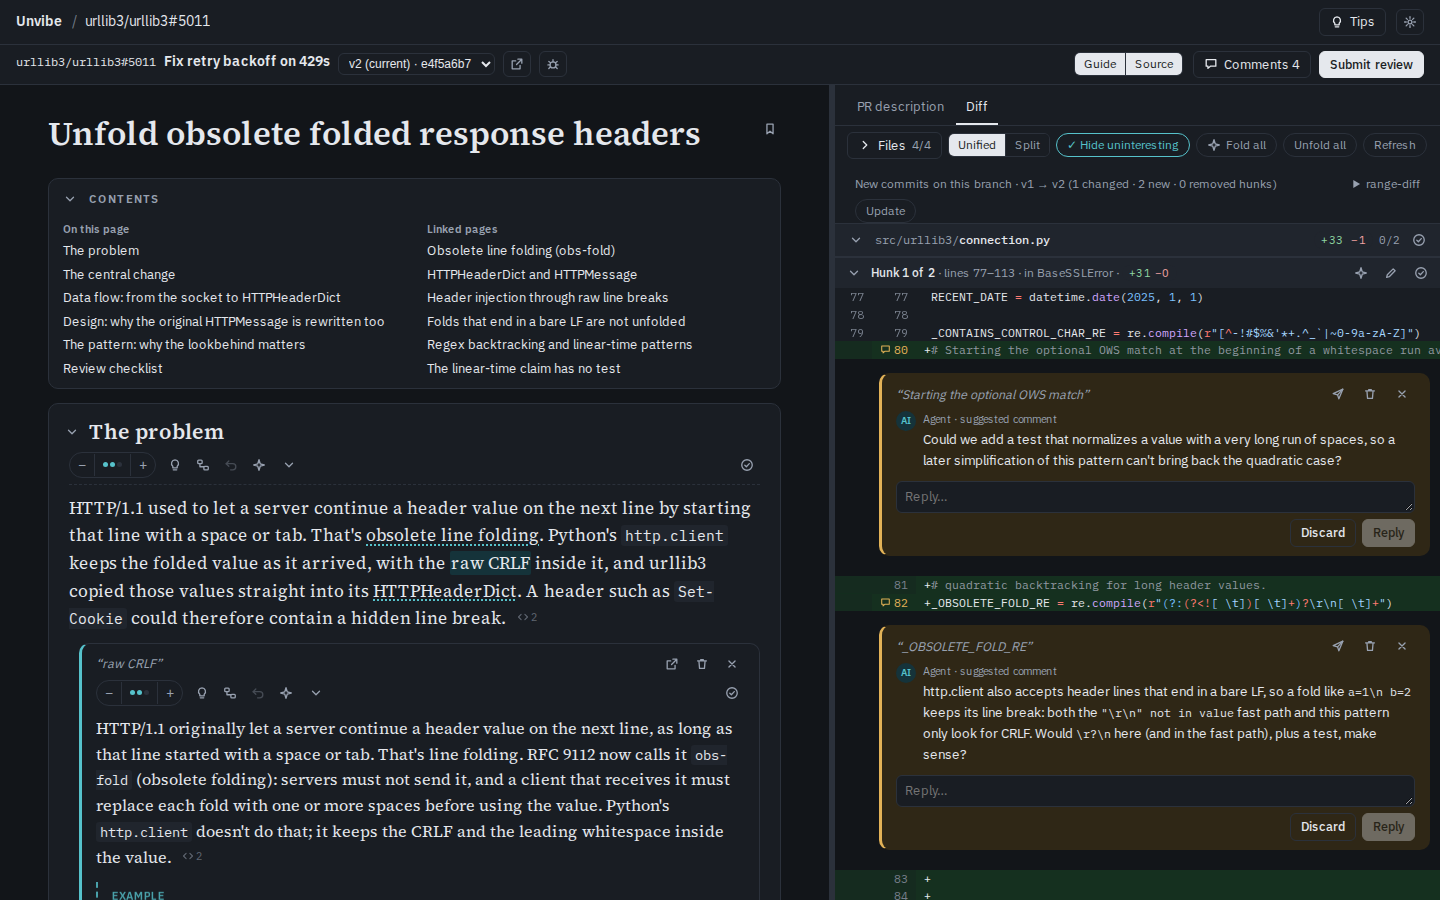
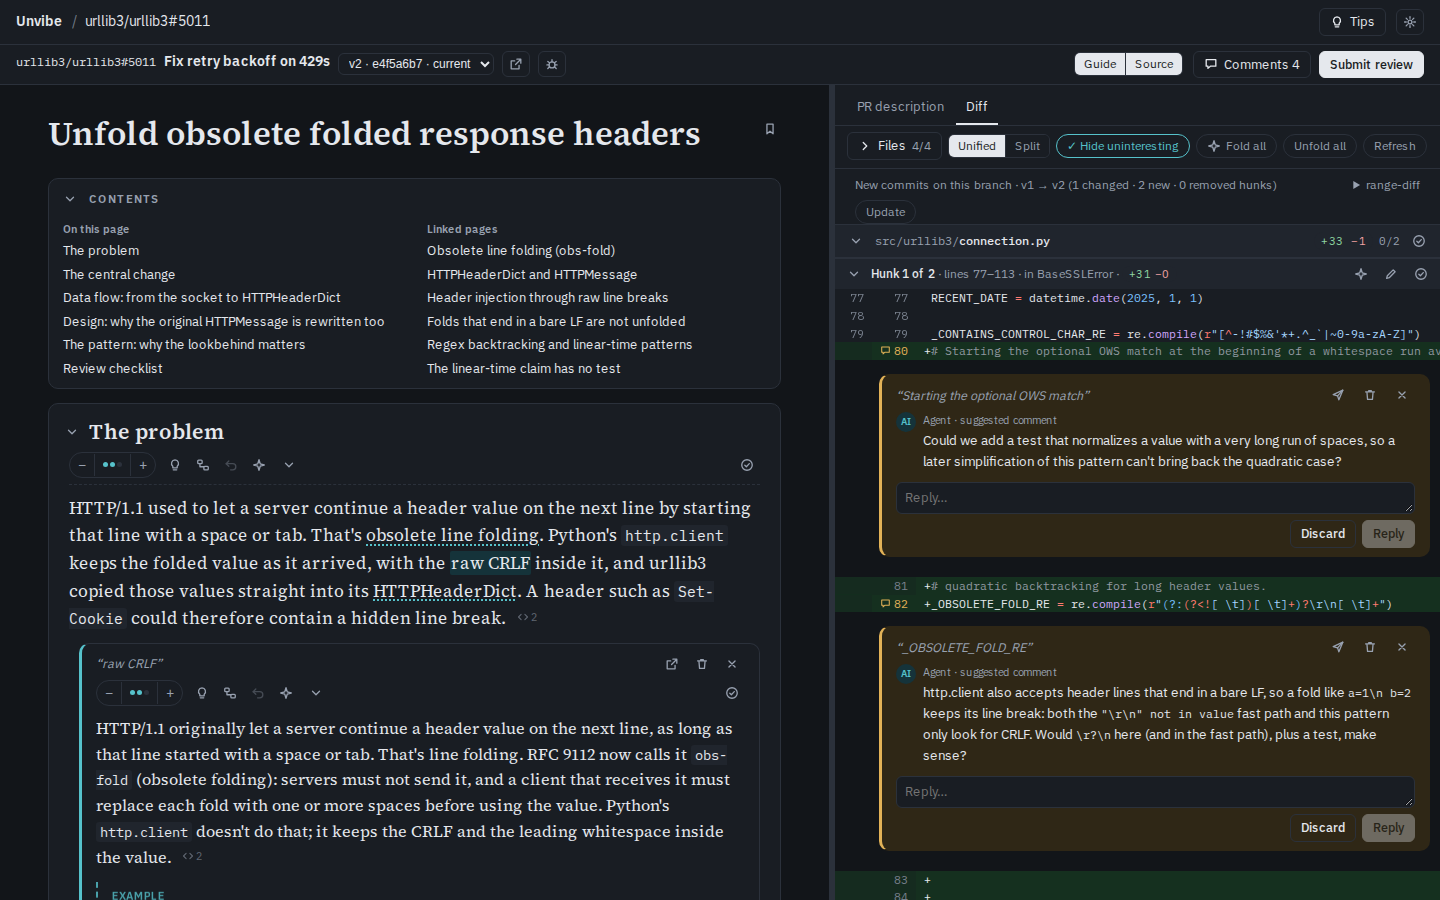
#120 follow-up: just annotate current in the dropdown, drop the bar notice and back button

diff --git a/packages/web/src/shell/ReviewBar.test.tsx b/packages/web/src/shell/ReviewBar.test.tsx
@@ -3,7 +3,8 @@
  * link-out (PR reviews only), the Debug icon button, the Guide|Source
  * selector, and Comments + primary Submit side by side. Issue #120: the
  * version selector lives here next to the identity (rendered once, also
- * with the guide pane hidden) with its read-only way back.
+ * with the guide pane hidden); the current version is annotated in the
+ * dropdown and an older shown version flags the select.
  */
 import { afterEach, beforeEach, describe, expect, it, vi } from "vitest";
 import "@testing-library/jest-dom/vitest";
@@ -222,6 +223,10 @@ describe("ReviewBar", () => {
       const pick = screen.getByLabelText("View version") as HTMLSelectElement;
       expect(pick.value).toBe("2");
       expect(pick).toHaveClass("tbtn");
+      // The current version is annotated in the dropdown.
+      const texts = [...pick.options].map((o) => o.textContent);
+      expect(texts).toContain("v2 · e4f5a6b7 · current");
+      expect(texts).toContain("v1 · bdcc1e49");
       cleanup();
       useReview.getState().clear();
       await renderBar("demo", "urllib3/urllib3#5020");
@@ -239,7 +244,7 @@ describe("ReviewBar", () => {
       expect(screen.getByTestId("version-switcher")).toBeInTheDocument();
     });
 
-    it("shows the read-only state with a way back to current", async () => {
+    it("flags an older shown version and annotates current as the way back", async () => {
       window.history.replaceState({}, "", "/review/r-old?version=1");
       try {
         useReview.getState().setSnapshot(await api.review("r-old"));
@@ -249,9 +254,16 @@ describe("ReviewBar", () => {
           </MemoryRouter>,
         );
         await screen.findByText("urllib3/urllib3#5011", {}, { timeout: 5000 });
-        const notice = screen.getByTestId("version-switcher");
-        expect(notice).toHaveTextContent("Viewing v1 · read-only");
-        expect(screen.getByRole("button", { name: "Back to current" })).toBeInTheDocument();
+        // The select shows the older version with the warning state; the
+        // bar itself carries no notice and no back button.
+        const switcher = screen.getByTestId("version-switcher");
+        expect(switcher).toHaveAttribute("data-ro", "1");
+        expect(screen.queryByRole("button", { name: "Back to current" })).toBeNull();
+        expect(switcher).not.toHaveTextContent("read-only");
+        const pick = screen.getByLabelText("View version") as HTMLSelectElement;
+        expect(pick.value).toBe("1");
+        const texts = [...pick.options].map((o) => o.textContent);
+        expect(texts).toContain("v2 · e4f5a6b7 · current");
       } finally {
         window.history.replaceState({}, "", "/");
       }

diff --git a/packages/web/src/versions/VersionSwitcher.tsx b/packages/web/src/versions/VersionSwitcher.tsx
@@ -1,9 +1,12 @@
 /**
- * Version switcher + read-only notice (PRD §8 "older versions stay
- * viewable"): a compact select of `review.versions`; picking an older one
- * navigates to `?version=n`, picking current clears it. Rendered once in
- * the review bar next to the review identity (issue #120), so it works
- * with the guide pane hidden; the diff pane reads the same param.
+ * Version switcher (PRD §8 "older versions stay viewable"): a compact
+ * select of `review.versions`; picking an older one navigates to
+ * `?version=n`, picking the current one clears it. Rendered once in the
+ * review bar next to the review identity (issue #120), so it works with
+ * the guide pane hidden; the diff pane reads the same param. The current
+ * version's option is annotated; an older shown version flags the select
+ * with the warning border (the page's other read-only signs stay as they
+ * are).
  */
 import { useLocation, useNavigate } from "react-router-dom";
 import { useReview } from "../state/store.js";
@@ -34,25 +37,17 @@ export function VersionSwitcher(): React.JSX.Element | null {
         id="version-pick"
         className="tbtn"
         aria-label="View version"
-        title={readOnly ? `Viewing v${viewing} · read-only` : "View version"}
+        title="View version"
         value={value}
         onChange={(e) => pick(Number(e.target.value))}
       >
         {review.versions.map((v) => (
           <option key={v.n} value={v.n}>
-            v{v.n}
-            {v.n === current ? " (current)" : ""} · {v.headSha.slice(0, 8)}
+            v{v.n} · {v.headSha.slice(0, 8)}
+            {v.n === current ? " · current" : ""}
           </option>
         ))}
       </select>
-      {readOnly ? (
-        <span className="hint ro" role="status">
-          <span className="words">Viewing v{viewing} · read-only · </span>
-          <button type="button" className="x" onClick={() => pick(current)}>
-            Back to current
-          </button>
-        </span>
-      ) : null}
     </span>
   );
 }

diff --git a/packages/web/e2e/review-bar.spec.ts b/packages/web/e2e/review-bar.spec.ts
@@ -74,18 +74,25 @@ test("review bar and top bar do not overflow at 800px", async ({ page }) => {
   }
 });
 
-test("older version keeps its way back at 800px (issue #120)", async ({ page }) => {
+test("older version annotates current and keeps the title at 800px (issue #120)", async ({ page }) => {
   await page.setViewportSize({ width: 800, height: 600 });
   await page.goto("/review/r-old?version=1");
   await expect(page.locator("#reviewbar")).toBeVisible();
-  // Rendered once, in the bar: the select shows the older version and the
-  // way back stays visible while the title gives way first.
-  await expect(page.locator('#reviewbar [data-testid="version-switcher"]')).toHaveCount(1);
-  await expect(page.getByRole("button", { name: "Back to current" })).toBeVisible();
+  // Rendered once, in the bar: the select shows the older version with
+  // the warning state, current is annotated in the dropdown, and there
+  // is no notice and no back button in the bar.
+  const switcher = page.locator('#reviewbar [data-testid="version-switcher"]');
+  await expect(switcher).toHaveCount(1);
+  await expect(switcher).toHaveAttribute("data-ro", "1");
+  await expect(page.locator("#version-pick option", { hasText: "current" })).toContainText("v2");
+  await expect(page.getByRole("button", { name: "Back to current" })).toHaveCount(0);
+  // The title is no longer squeezed out entirely.
+  const titleBox = await page.locator("#reviewbar .rid b").boundingBox();
+  expect(titleBox?.width).toBeGreaterThan(0);
   const overflow = await page.locator("#reviewbar").evaluate((el) => el.scrollWidth - el.clientWidth);
   expect(overflow).toBeLessThanOrEqual(1);
-  // The way back returns to current.
-  await page.getByRole("button", { name: "Back to current" }).click();
+  // Choosing the annotated current version is the way back.
+  await page.locator("#version-pick").selectOption("2");
   await expect(page).not.toHaveURL(/version=1/);
 });
 

diff --git a/packages/web/e2e/settings.spec.ts b/packages/web/e2e/settings.spec.ts
@@ -328,10 +328,16 @@ test("version switcher views the older version read-only", async ({ page }) => {
   await expect(page.locator('[data-testid="version-switcher"]')).toBeVisible();
   await page.locator("#version-pick").selectOption("1");
   await expect(page).toHaveURL(/version=1/);
-  await expect(page.locator('[data-testid="version-switcher"]').getByText("Viewing v1 · read-only")).toBeVisible();
+  // Current is annotated in the dropdown; the select flags the older
+  // version and the bar itself carries no notice and no back button.
+  await expect(page.locator('#version-pick option[value="2"]')).toContainText("current");
+  await expect(page.locator('[data-testid="version-switcher"]')).toHaveAttribute("data-ro", "1");
+  await expect(page.getByRole("button", { name: "Back to current" })).toHaveCount(0);
+  // The page still signals read-only elsewhere (the diff hint).
   await expect(page.getByText("Viewing v1 · read-only", { exact: false }).first()).toBeVisible();
   await expect(page.locator('[data-testid="stale-banner"]')).toHaveCount(0);
-  await page.getByRole("button", { name: "Back to current" }).click();
+  // Choosing the annotated current version is the way back.
+  await page.locator("#version-pick").selectOption("2");
   await expect(page).not.toHaveURL(/version=1/);
   await expect(page.locator('[data-testid="stale-banner"]')).toBeVisible();
 });

diff --git a/packages/web/src/styles/prototype.css b/packages/web/src/styles/prototype.css
@@ -69,17 +69,11 @@ code { font-family: var(--mono); font-size: .86em; }
 .rbar .rid b { min-width: 0; overflow: hidden; text-overflow: ellipsis; white-space: nowrap; font-weight: 600; }
 .rbar .rid .ib { flex: none; align-self: center; }
 /* Review bar (#120): the version selector sits next to the identity. It
-   never shrinks (the title gives way first) and its read-only note never
-   truncates away at narrow widths. */
+   never shrinks (the title gives way first); an older shown version flags
+   it with the warning border. */
 .rbar .rid .vs { display: inline-flex; gap: 6px; align-items: center; flex: none; align-self: center; min-width: 0; }
 .rbar .rid .vs select.tbtn { font-size: 12px; padding: 2px 6px; max-width: 220px; }
-.rbar .rid .vs .ro { white-space: nowrap; }
-.rbar .rid .vs .ro button { flex: none; }
 .rbar .rid .vs[data-ro] select.tbtn { border-color: var(--warn); }
-/* Narrow windows keep the way back, not the words: the select already
-   shows the older version with the warning border, so only the "Viewing
-   …" words hide and "Back to current" never truncates away. */
-@media (max-width: 1100px) { .rbar .rid .vs .ro .words { display: none; } }
 .rbar .seg { flex: none; }
 .rbar .ra { display: flex; gap: 8px; align-items: center; flex: none; }
 /* Live job count (issue #98): two numbers (running · queued) in the review

diff --git a/packages/web/e2e/comments.spec.ts b/packages/web/e2e/comments.spec.ts
@@ -166,7 +166,8 @@ test("older versions are read-only: no toolbar, threads, drafts or submit", asyn
   await expect(page.locator("#page .doc h1.title")).toContainText(
     "Unfold obsolete folded response headers",
   );
-  await expect(page.locator('[data-testid="version-switcher"]').getByText("Viewing v1 · read-only")).toBeVisible();
+  await expect(page.locator('[data-testid="version-switcher"]')).toHaveAttribute("data-ro", "1");
+  await expect(page.locator('#version-pick option[value="2"]')).toContainText("current");
   // Selecting guide text offers no toolbar. The selection is made inline
   // (range + mouseup, no waits — the toolbar hides synchronously on
   // read-only versions); the selected text is asserted first so a missing

diff --git a/packages/web/src/shell/ReviewBar.tsx b/packages/web/src/shell/ReviewBar.tsx
@@ -5,8 +5,9 @@
  *
  * - Left: the review identity (`owner/name#N` + title, truncated with the
  *   full title on hover), the version selector next to it (issue #120;
- *   hidden for single-version reviews, with its read-only way back), the
- *   PR label linking to GitHub for PR reviews
+ *   hidden for single-version reviews, the current version annotated in
+ *   the dropdown, an older shown version flagged with a warning border),
+ *   the PR label linking to GitHub for PR reviews
  *   (#94, new tab) alongside the link-out icon, and Debug as
  *   an icon button (hidden until the review finishes opening, issue #92).
  * - Middle: the `[ Guide | Source ]` pane selector. Each segment toggles

diff --git a/packages/web/e2e/settings-versions-service.spec.ts b/packages/web/e2e/settings-versions-service.spec.ts
@@ -244,7 +244,10 @@ test.describe("settings + versions on the real service", () => {
 
     // Update is not wired without the pipeline (no base runner): the button
     // reports that plainly instead of hanging.
-    await page.getByRole("button", { name: "Back to current" }).click();
+    // Choosing the current version (annotated in the dropdown) is the way back.
+    const options = page.locator("#version-pick option");
+    await expect(options.last()).toContainText("current");
+    await page.locator("#version-pick").selectOption({ index: (await options.count()) - 1 });
     await expect(banner).toBeVisible();
     await banner.getByRole("button", { name: "Update" }).click();
   });

diff --git a/PRD.md b/PRD.md
@@ -68,7 +68,7 @@ Reviewing a branch you didn't write is slow. That's more and more often the case
 
 ### 4.1 Layout
 - **Top bar (app-wide only):** the **Unvibe** home link, a breadcrumb after it on every screen but the start page (`Unvibe / Settings`, `Unvibe / Settings / Doctor`, `Unvibe / <review> / Debug`), the preview-build badge and Tips where they show, and Settings as a gear icon button in the same place on every screen (the Settings screen itself has no Settings button).
-- **Review bar** (second row on a review, above both panes): the review identity (`owner/name#N` + title, the PR label linking to the PR page on GitHub for PR reviews), the version selector next to it (hidden for single-version reviews; an older version shows a read-only state with a way back to current), a GitHub link-out for PR reviews, Debug as an icon button, a `[ Guide | Source ]` pane selector (each segment toggles its pane; either pane alone fills the window, never both hidden), and Comments + Submit side by side with Submit as the primary action. While any of the review's jobs is running or queued, a small `running · queued` count sits in the right corner after Submit — a link to the Debug jobs list, with a slow gradient drift while anything runs. It renders nothing when no job is live. At narrow widths the title gives way first; the version selector and its way back never truncate away.
+- **Review bar** (second row on a review, above both panes): the review identity (`owner/name#N` + title, the PR label linking to the PR page on GitHub for PR reviews), the version selector next to it (hidden for single-version reviews; the current version annotated in the dropdown, an older shown version flagged with a warning border), a GitHub link-out for PR reviews, Debug as an icon button, a `[ Guide | Source ]` pane selector (each segment toggles its pane; either pane alone fills the window, never both hidden), and Comments + Submit side by side with Submit as the primary action. While any of the review's jobs is running or queued, a small `running · queued` count sits in the right corner after Submit — a link to the Debug jobs list, with a slow gradient drift while anything runs. It renders nothing when no job is live. At narrow widths the title gives way first; the version selector never truncates away.
 - **Guide** (left, main column): the current page.
 - **Source pane** (right): tabs for **PR description** and **Diff**. A drag handle resizes it, and the arrow keys work on the handle. It's docked at window widths of 900px and up, and an overlay below that. Clicking any citation opens it.
 - Nothing may disappear because a pane is narrow. Controls wrap, become icons with tooltips, or stay pinned to the pane width.

diff --git a/docs/acceptance-audit.md b/docs/acceptance-audit.md
@@ -109,7 +109,7 @@ UI); nothing below was edited by this pass.
   link-out + Debug icon, [ Guide | Source ] pane toggles incl. full-width
   source per #83, Comments + primary Submit; source tabs keep PR
   description / Diff only; at narrow widths the title gives way first and
-  the selector with its read-only way back never truncates) — met
+  the selector never truncates) — met
   (`ReviewBar.tsx`, `VersionSwitcher.tsx`, `AppShell.test.tsx`,
   `e2e/review-bar.spec.ts`; `docs/screenshots/55-review.png`,
   `55-review-800px.png`, `55-review-dark.png`,
@@ -664,8 +664,8 @@ needed (that deviation is closed, not added).
   fixtures).
 - New head SHA → version + ID mapping; old versions viewable — met
   (`versions/refresh.ts`, `review_version_files`, `GET ?version=n`,
-  the selector rendered once in the review bar per #120 with its read-only
-  way back, `versions-refresh.test.ts`,
+  the selector rendered once in the review bar per #120 with the current
+  version annotated in the dropdown, `versions-refresh.test.ts`,
   `settings-versions-service.spec.ts` “v1 viewable”).
 - Rebase-vs-branch by content hash + `range-diff` — met
   (`versions/compare.ts`, `rangeDiff.ts`; refresh test (a): rebase
